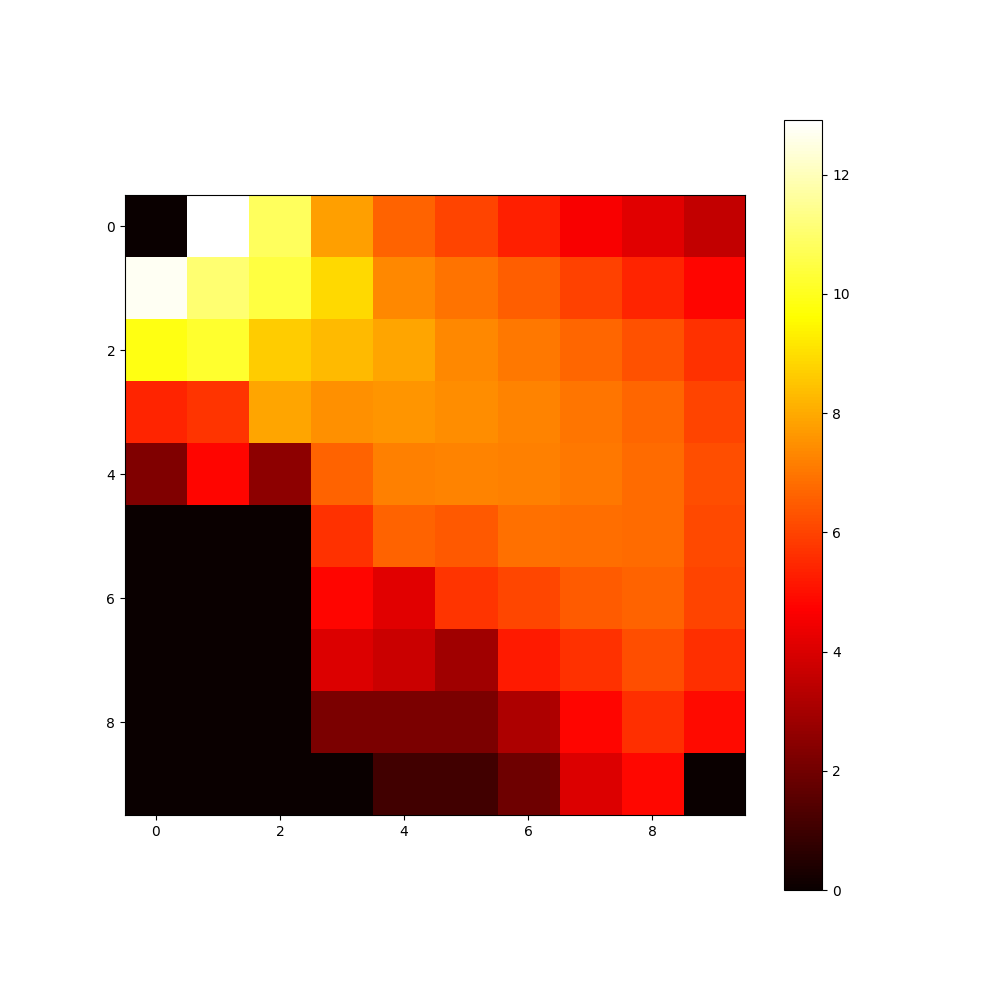
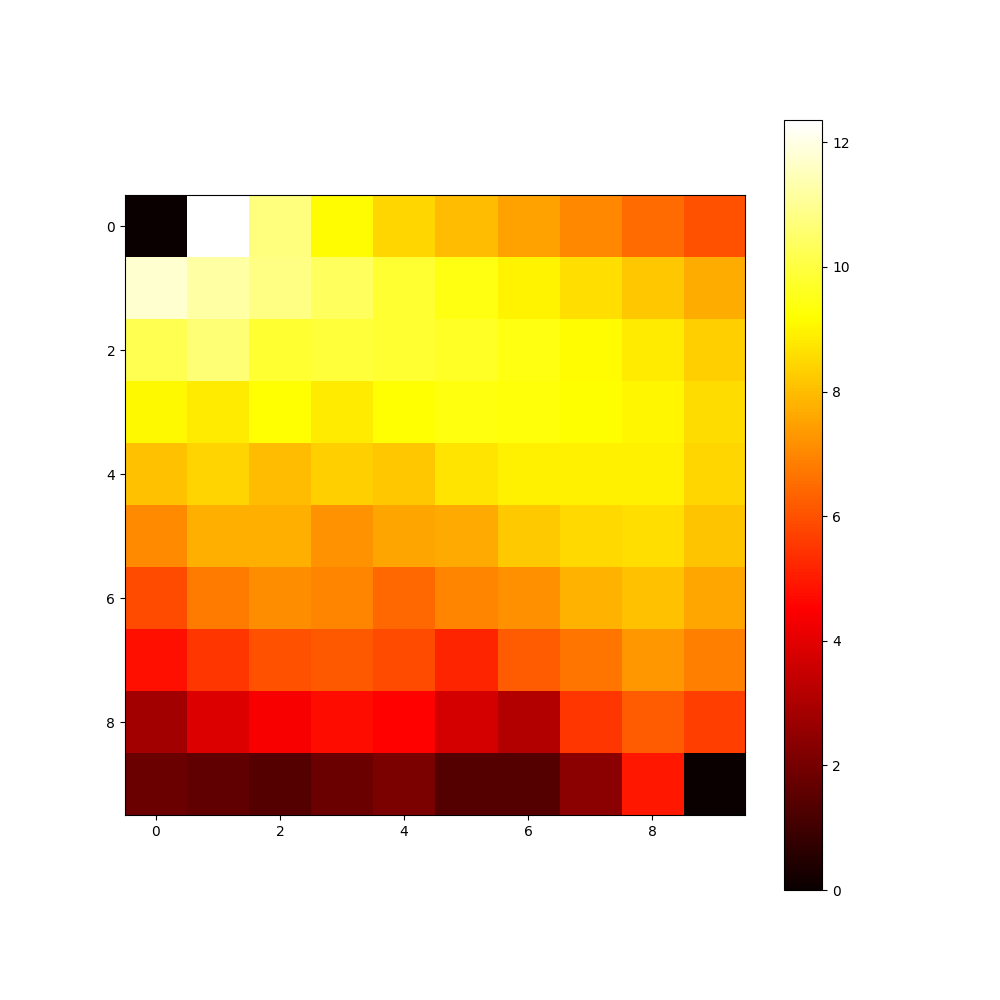
qlearn selfishly !

diff --git a/proof_of_work/qlearning/reduced_ql_agent.py b/proof_of_work/qlearning/reduced_ql_agent.py
@@ -10,8 +10,11 @@ class QLearningAgent(object):
         self.T = T
         self.state_count = (T+1) * (T+1)
         self.qvalues = np.zeros((self.state_count, 3))
-        self.rate = 1
         self.rho = rho
+        self.initial_learning_rate = 0.99
+        self.min_learning_rate = 0.05
+        self.initial_exploration_rate = 0.99
+        self.min_exploration_rate = 0.1
         self.states_visited = np.zeros((self.T+1, self.T+1))
 
         # initialize state mapping and states
@@ -24,10 +27,14 @@ class QLearningAgent(object):
                 self.states.append((a, h))
                 count += 1
     
-    def chooseAction(self, state_index):
+    def chooseAction(self, current_state):
         legal_actions = self.env.getLegalActions()
+        state_index = self.state_mapping[current_state]
         # explore
-        if np.random.uniform() < self.rate:
+        current_explore_rate = np.power(self.initial_exploration_rate, self.states_visited[current_state])
+        if current_explore_rate < self.min_exploration_rate:
+            current_explore_rate = self.min_exploration_rate
+        if np.random.uniform() < current_explore_rate:
             return np.random.choice(legal_actions)
        
         # exploit
@@ -49,7 +56,7 @@ class QLearningAgent(object):
             current_state_tuple = self.env.current_state.getTupleRepresentation()
             self.states_visited[current_state_tuple] += 1
             current_state_index = self.state_mapping[current_state_tuple]
-            action = self.chooseAction(current_state_index)
+            action = self.chooseAction(current_state_tuple)
             print('current_state: ', self.env.current_state, ' -- action: ', action)
             new_state, reward = self.env.takeAction(action)
             print('new_state: ', new_state, ' -- reward: ', reward)
@@ -57,13 +64,12 @@ class QLearningAgent(object):
             reward_value = self.evalReward(reward)
             highest_qvalue_new_state = max(self.qvalues[new_state_index])
             
+            current_learn_rate = np.power(self.initial_learning_rate, self.states_visited[current_state_tuple])
+            if current_learn_rate < self.min_learning_rate:
+                current_learn_rate = self.min_learning_rate
             # Q-values being updated
             sample = reward_value + self.discount*highest_qvalue_new_state
-            self.qvalues[current_state_index, action] = (1 - self.rate)*self.qvalues[current_state_index, action] + self.rate*sample
-
-            # reduce exploration rate
-            if self.rate > 0.05:
-                self.rate *= 0.99
+            self.qvalues[current_state_index, action] = (1 - current_learn_rate)*self.qvalues[current_state_index, action] + current_learn_rate*sample
     
     def extractPolicy(self):
         policy = []
@@ -116,7 +122,7 @@ class QLearningAgent(object):
         plt.show()
 
 def main():
-    qlagent = QLearningAgent(discount=1, alpha=0.45, T=9, rho=0.6032638549804688)
+    qlagent = QLearningAgent(discount=0.99, alpha=0.35, T=10, rho=0.36702728271484375)
     qlagent.runTrial(iterations=int(1000*1000))
     qlagent.processPolicy(qlagent.extractPolicy())
     qlagent.plotStatesVisited()

diff --git a/proof_of_work/mdps/transform_reduced.py b/proof_of_work/mdps/transform_reduced.py
@@ -87,9 +87,9 @@ class SelfishMDP(object):
         opt_policy = rvi.policy
         print('alpha: ', self.alpha, 'lower bound reward:', rho)
         
-        ql = mdptoolbox.mdp.QLearning(self.transitions, total_reward, discount=1, n_iter=100000)
-        ql.run()
-        self.processPolicy(ql.policy)
+        # ql = mdptoolbox.mdp.QLearning(self.transitions, total_reward, discount=1, n_iter=100000)
+        # ql.run()
+        # self.processPolicy(ql.policy)
         
         # vi = mdptoolbox.mdp.ValueIteration(self.transitions, total_reward, discount=1, epsilon=self.epsilon/8)
         # vi.run()
@@ -99,7 +99,7 @@ class SelfishMDP(object):
         # pi.run()
         # self.processPolicy(pi.policy)
         
-        # self.processPolicy(opt_policy)
+        self.processPolicy(opt_policy)
         
     def processPolicy(self, policy):
         results = ''
@@ -121,7 +121,7 @@ class SelfishMDP(object):
         print(results)
 
 def main():
-    for alpha in [0.45]:
+    for alpha in [0.35]:
         print(alpha)
         mdp = SelfishMDP(alpha=alpha, T=9, epsilon=10e-5)
         mdp.getRhoBounds()
